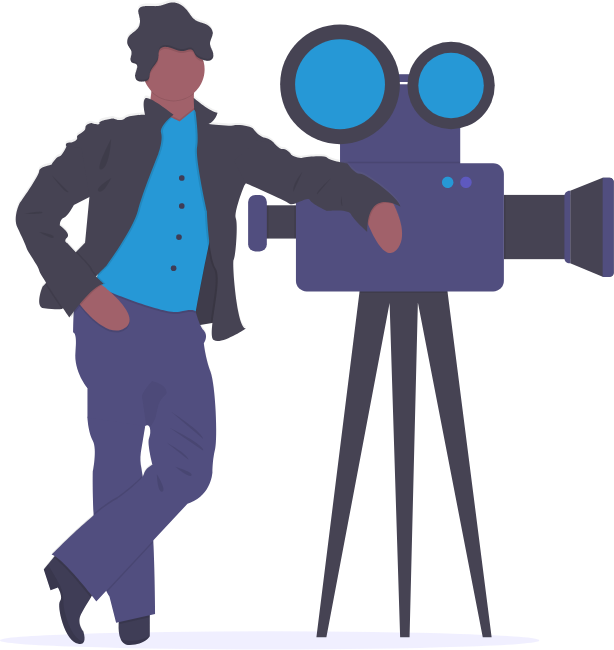
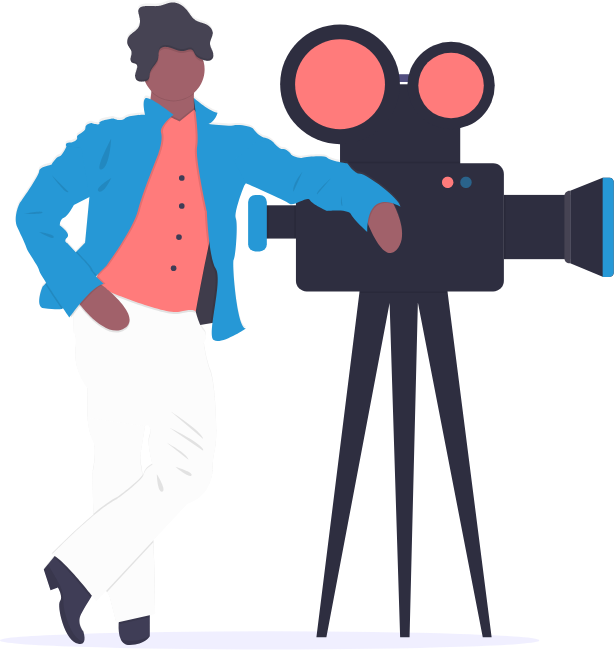
Societies.html

Changed region(s): [[0.0, 0.0615, 0.8355, 0.9538], [0.9593, 0.2769, 1.0, 0.4308], [0.8974, 0.2769, 0.9283, 0.4]]

diff --git a/templates/societies.html b/templates/societies.html
@@ -54,6 +54,7 @@
             <div class="flip-card-front">
                 <img id="societies" src="../static/images/societies/societies.png">
                 <h2 id="title-front">Societies</h2>
+
             </div>
             <div class="flip-card-back">
                 <h1 id="title-back">Why Join a Society?</h1>
@@ -91,7 +92,7 @@
     <div id="flip-card-4">
         <div class="flip-card-inner">
             <div class="flip-card-front">
-                <img id="s_media" src="../static/images/societies/media_rb.png">
+                <img id="s_media" src="../static/images/societies/media_white.png.png">
                 <h2 id="title-front">Student Media</h2>
             </div>
             <div class="flip-card-back">

diff --git a/static/css/flipcard-stylesheet.css b/static/css/flipcard-stylesheet.css
@@ -138,7 +138,7 @@ p {
 #studentaccom, #rented, #home, #search, #checklist, #time,
 #doctor, #m_health, #pec1, #pec2, #coronavirus, #s_health,
 #clubs, #pubs, #bars, #tips, #safe, #drinks,
-#societies, #volunteer, #sports_clubs, #s_media, #GIAG, #bursaries {
+#societies, #volunteer, #sports_clubs, #s_media, #GIAG, #bursaries, #m_icons {
     display: block;
     margin-left: auto;
     margin-right: auto;
